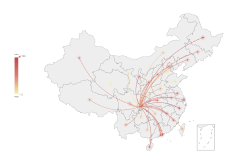
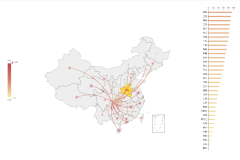
修改 echarts 案例

diff --git a/src/views/echarts/map-03.vue b/src/views/echarts/map-03.vue
@@ -32,6 +32,28 @@ export default {
           top: 'center',
           itemHeight: 200
         },
+        grid: {
+          left: '85%',
+          right: '5%'
+        },
+        xAxis: {
+          // x 轴的位置。top 或 bottom
+          position: 'top',
+          // 分割线
+          splitLine: {
+            show: false
+          },
+          // 轴线
+          axisLine: {
+            show: false
+          }
+        },
+        yAxis: {
+          type: 'category',
+          axisTick: {
+            show: false
+          }
+        },
         // 地理坐标系组件
         geo: {
           show: true,
@@ -42,7 +64,9 @@ export default {
           // 当前视角的缩放比例
           zoom: 1,
           // 当前视角的中心点，用经纬度表示
-          center: [104.114129, 37.550339]
+          center: [104.114129, 37.550339],
+          left: '20%',
+          right: '30%'
         },
         series: [
           {
@@ -62,11 +86,13 @@ export default {
               // 循环显示特效
               loop: true,
               //特效尾迹的长度。取从 0 到 1 的值，数值越大尾迹越长
-              trailLength: 0.2
+              trailLength: 0.2,
+              // 配置特效图形的移动动画是否是固定速度，单位像素/秒，设置为大于 0 的值后会忽略 period 配置项
+              constantSpeed: 50
             },
             lineStyle: {
               // 边的曲度，支持从 0 到 1 的值，值越大曲度越大
-              curveness: 0.25
+              curveness: -0.25
             }
           },
           {
@@ -84,7 +110,18 @@ export default {
               // 波纹的绘制方式，可选 'stroke' 和 'fill'
               brushType: 'stroke'
             },
-            symbol: 'diamond'
+            symbol: 'circle',
+            symbolSize: function(data) {
+              return data[2] / 10
+            }
+          },
+          {
+            type: 'bar',
+            data: this.barData(),
+            barWidth: '30%',
+            itemStyle: {
+              barBorderRadius: 5
+            }
           }
         ]
       }
@@ -107,6 +144,11 @@ export default {
         name: name,
         value: [ lng, lat, value ]
       }))
+    },
+    barData() {
+      return Object.entries(cityCenter)
+        .map(([name, { lng, lat, value }]) => ([ value, name ]))
+        .sort((m, n) => m[0] - n[0])
     }
   }
 }

diff --git a/src/components/echarts/menu.vue b/src/components/echarts/menu.vue
@@ -71,14 +71,14 @@ const temp = [
   {
     title: '地理航线可视化',
     name: 'map-02',
-    type: ['lines', 'effectScatter'],
+    type: ['lines', 'effectScatter', 'map'],
     tag: ['geo', 'effect', 'rippleEffect']
   },
   {
     title: '地理航线可视化',
     name: 'map-03',
-    type: ['lines', 'effectScatter'],
-    tag: ['geo', 'effect', 'rippleEffect', 'visualMap']
+    type: ['lines', 'effectScatter', 'map', 'bar'],
+    tag: ['geo', 'effect', 'rippleEffect', 'visualMap', 'axis']
   },
   {
     title: '百度地图可视化',
